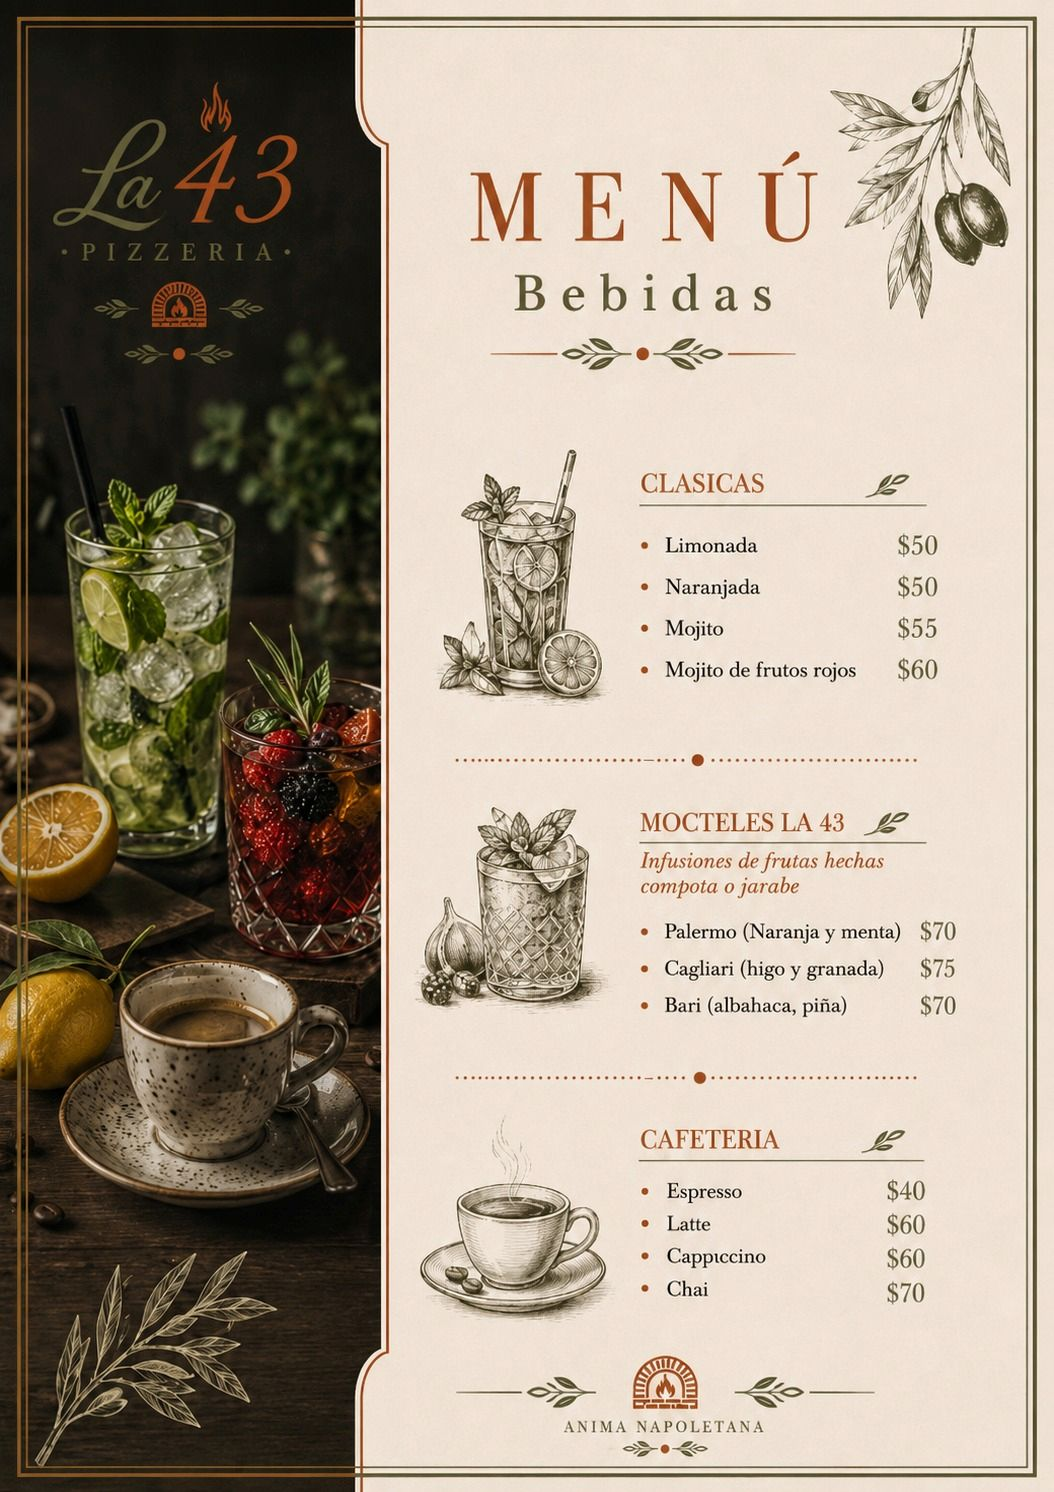
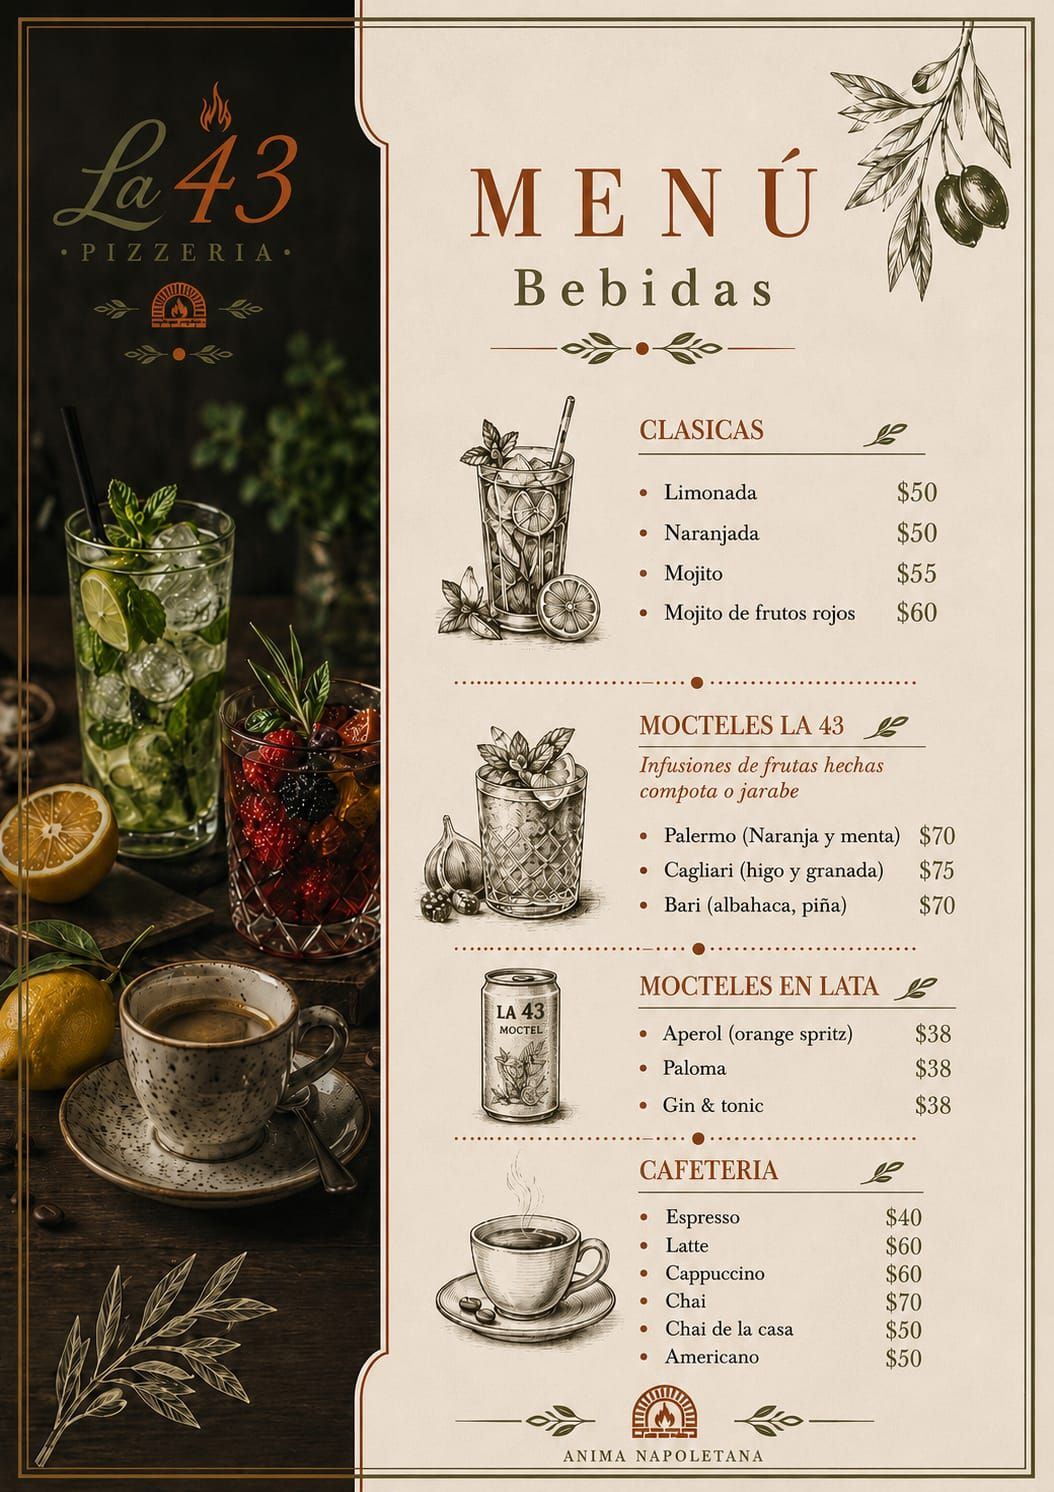
Añadi menú de pastas y correciones al menu

diff --git a/menu.html b/menu.html
@@ -51,6 +51,7 @@
 
         <div class="menu-tabs" role="tablist" aria-label="Categorias del menu">
           <button class="menu-tab active" id="tab-pizzas" type="button" role="tab" aria-selected="true" aria-controls="panel-pizzas" data-menu-target="pizzas">Pizzas</button>
+          <button class="menu-tab" id="tab-pastas" type="button" role="tab" aria-selected="false" aria-controls="panel-pastas" data-menu-target="pastas">Pastas</button>
           <button class="menu-tab" id="tab-entradas" type="button" role="tab" aria-selected="false" aria-controls="panel-entradas" data-menu-target="entradas">Entradas</button>
           <button class="menu-tab" id="tab-postres" type="button" role="tab" aria-selected="false" aria-controls="panel-postres" data-menu-target="postres">Postres</button>
           <button class="menu-tab" id="tab-bebidas" type="button" role="tab" aria-selected="false" aria-controls="panel-bebidas" data-menu-target="bebidas">Bebidas</button>
@@ -109,34 +110,65 @@
           </div>
         </div>
 
+        <div class="menu-panel" id="panel-pastas" role="tabpanel" aria-labelledby="tab-pastas" data-menu-panel="pastas" hidden>
+          <div class="menu-layout">
+            <div class="menu-list">
+              <article class="menu-item">
+                <div>
+                  <h3>Villavicencio</h3>
+                  <p>Fusilli con un sabor mediterráneo, con mucho cuerpo y sabor a camarón, cherry, aceituna y texturizada con pan molido horneado.</p>
+                </div>
+                <span>$230</span>
+              </article>
+              <article class="menu-item">
+                <div>
+                  <h3>Cahabana</h3>
+                  <p>Spaguetti bañada en una sedosa y brillante crema de flor de calabaza, con ligeras notas de habanero, terminada con queso de cabra y brotes de betabel.</p>
+                </div>
+                <span>$190</span>
+              </article>
+              <article class="menu-item">
+                <div>
+                  <h3>Tomatta</h3>
+                  <p>Pasta envuelta en 4 tipos de jitomate y un toque de queso de cabra, coronada con jitomate deshidratado y parmesano.</p>
+                </div>
+                <span>$210</span>
+              </article>
+            </div>
+            <figure class="menu-art">
+              <img src="assets/menu-pastas.jpg" alt="Menú de pastas La 43">
+            </figure>
+          </div>
+        </div>
+
         <div class="menu-panel" id="panel-entradas" role="tabpanel" aria-labelledby="tab-entradas" data-menu-panel="entradas" hidden>
           <div class="menu-layout">
             <div class="menu-list">
               <article class="menu-item">
                 <div>
                   <h3>Dip de ricotta</h3>
-                  <p>Mix de queso ricotta y queso de cabra especiado, con tomates asados, ajo y mezcla albahaca.</p>
+                  <p>Mix de queso ricotta y queso de cabra especiado, coronado con tomates cherry confitados.</p>
                 </div>
                 <span>$110</span>
               </article>
               <article class="menu-item">
                 <div>
                   <h3>Carpaccio</h3>
-                  <p>Carpaccio de higo y prosciutto, con queso de cabra, arúgula, nuez y vinagreta de la casa.</p>
+                  <p>Carpaccio de higo y prosciutto, con queso de cabra, arúgula y nuez, bañado en nuestra vinagreta de la casa.</p>
                 </div>
                 <span>$140</span>
               </article>
               <article class="menu-item">
                 <div>
                   <h3>Bruschetta</h3>
-                  <p>Base de pesto, queso mozzarella fresco, jamón serrano, tomates cherry asados y toque de miel.</p>
+                  <p>Base de pesto, queso mozzarella fresco, jamón serrano, tomates cherry confitados, coronado con arúgula y un toque de miel.</p>
                 </div>
                 <span>$120</span>
               </article>
               <article class="menu-item">
                 <div>
                   <h3>Burrata</h3>
-                  <p>Tartar de jitomate con albahaca, parmesano, balsámico y aceite de oliva, coronado con burrata.</p>
+                  <p>Tartar de jitomate con albahaca, parmesano, vinagre balsámico y aceite de oliva, coronado con burrata y crujiente de parmesano.</p>
                 </div>
                 <span>$135</span>
               </article>
@@ -153,7 +185,7 @@
               <article class="menu-item">
                 <div>
                   <h3>Blondie de tiramisú</h3>
-                  <p>Torre de blondie con crema mascarpone, espolvoreado de cocoa acompañado de nieve de café.</p>
+                  <p>Torre de blondie con crema de Philadelphia, espolvoreado de cacao, acompañado con nieve de vainilla.</p>
                 </div>
                 <span>$80</span>
               </article>
@@ -167,7 +199,7 @@
               <article class="menu-item">
                 <div>
                   <h3>Jericalla Brûlée</h3>
-                  <p>Clásica jericalla tapatía con un sútil sabor a creme brûlée, decorada con fresa y hojas de hierbabuena.</p>
+                  <p>Combinación perfecta entre crème brûlée y nuestra jericalla tapatía, terminado con azúcar flameada y decorada con fresa y hojas de hierbabuena.</p>
                 </div>
                 <span>$70</span>
               </article>
@@ -188,14 +220,14 @@
                   <span>$50</span>
                   <li>Naranjada</li>
                   <span>$50</span>
-                  <li>Mojito virgen</li>
+                  <li>Mojito</li>
                   <span>$55</span>
                   <li>Mojito de frutos rojos</li>
                   <span>$60</span>
                 </ul>
               </article>
               <article class="menu-card">
-                <h3>Mockteles La 43</h3>
+                <h3>Mocteles La 43</h3>
                 <ul>
                   <li>Palermo: naranja y menta</li>
                   <span>$70</span>
@@ -203,6 +235,17 @@
                   <span>$75</span>
                   <li>Bari: albahaca y piña</li>
                   <span>$70</span>
+                </ul>
+              </article>
+              <article class="menu-card">
+                <h3>Mocteles en lata</h3>
+                <ul>
+                  <li>Aperol (orange spritz)</li>
+                  <span>$38</span>
+                  <li>Paloma</li>
+                  <span>$38</span>
+                  <li>Gin & Tonic</li>
+                  <span>$38</span>
                 </ul>
               </article>
               <article class="menu-card">
@@ -216,6 +259,10 @@
                   <span>$60</span>
                   <li>Chai</li>
                   <span>$70</span>
+                  <li>Chai de la casa</li>
+                  <span>$50</span>
+                  <li>Americano</li>
+                  <span>$50</span>
                 </ul>
               </article>
               <article class="menu-card">
